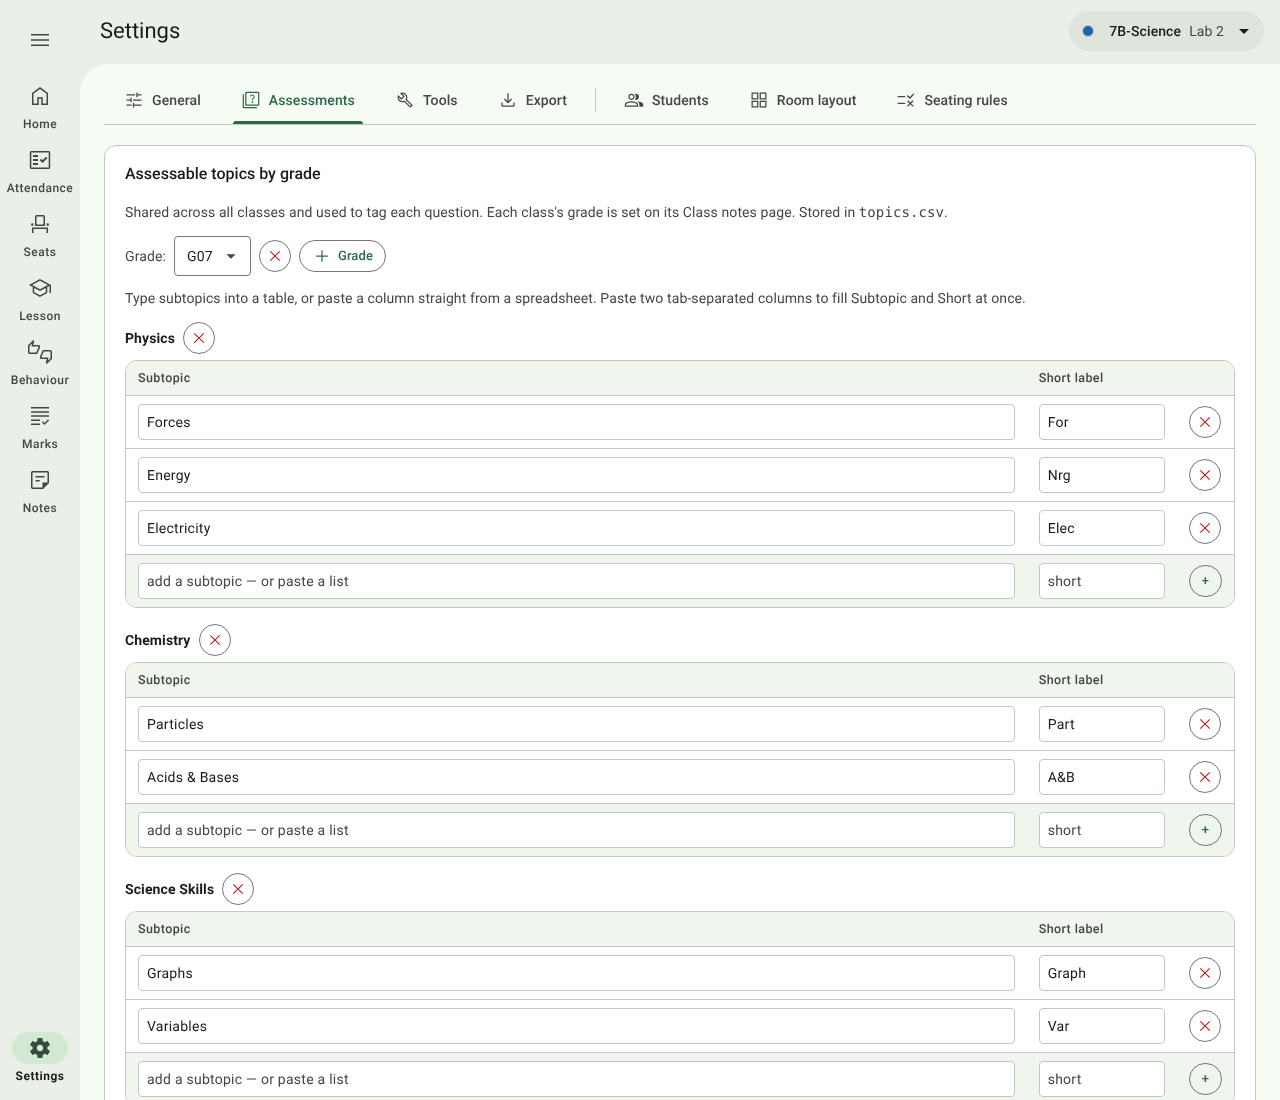
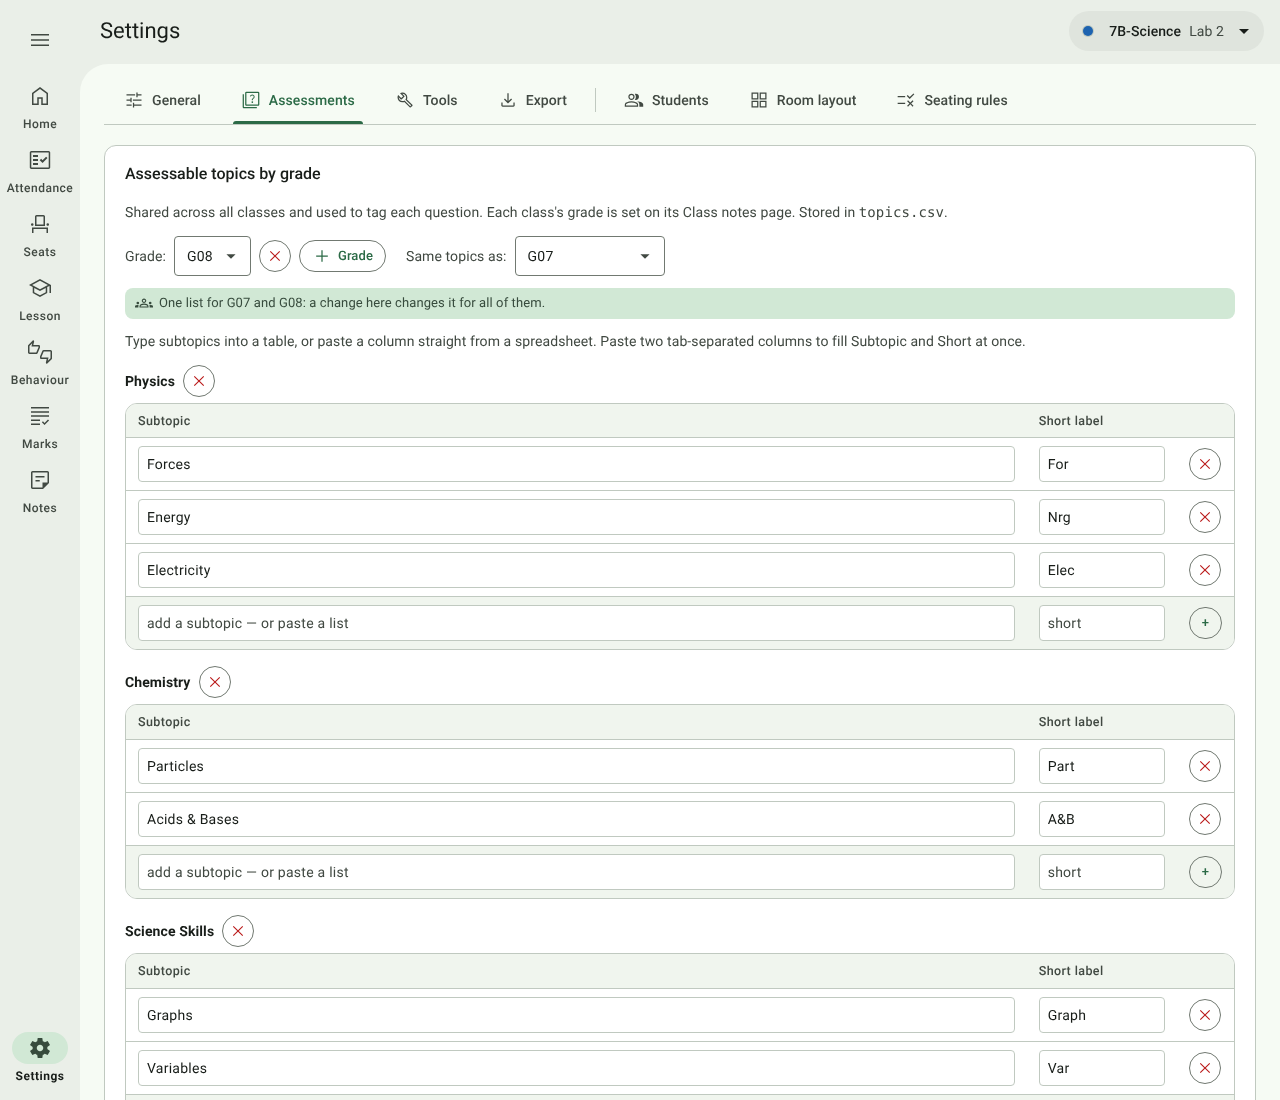
Docs: catch the README and user guide up with the latest changes
- Setting up a class: type the grade as a plain number (10, not 08 or 2026),
  since it has to match the grade's topic list and weighting.
- Marks: topic suggestions can come from a list the grade shares.
- Lesson: teaching mode sets Start lesson / End lesson apart.
- Your data: troubleshooting for a test with no topics, and for an
  unexpected grade such as G2026 under Settings > Assessments.
- README: the topic bank is by grade and grades can share one list.
- The Settings > Assessments screenshot now shows a second grade sharing the
  demo grade's topics, taken after the weighting shot so that one is unchanged.

Claude-Session: https://claude.ai/code/session_0196FnLqe7iH8D6Bvum5RUph

Changed region(s): [[0.0938, 0.2164, 0.9688, 1.0]]

diff --git a/scripts/screenshots/guide.shots.ts b/scripts/screenshots/guide.shots.ts
@@ -488,9 +488,15 @@ test("settings", async ({ page }) => {
   await shotOf(page, panel(page, "Data"), "settings-data", 0);
 
   await settingsTab(page, "Assessments");
-  await shot(page, "settings-assessments");
   await shotOf(page, [panel(page, "Mark entry"), panel(page, "Show results as")], "settings-mark-entry-and-results", 0);
   await shotOf(page, panel(page, "Weighting"), "settings-weighting", 0);
+  // A second grade sharing the demo grade's topics, so the picture shows Same topics as and its note.
+  await page.getByRole("button", { name: "Grade", exact: true }).click();
+  await modal(page).locator("input").fill("8");
+  await modal(page).locator("button.primary").click();
+  await page.getByLabel("Same topics as:").selectOption("7");
+  await page.evaluate(() => window.scrollTo(0, 0));
+  await shot(page, "settings-assessments");
 
   await settingsTab(page, "Export");
   await shot(page, "settings-export");

diff --git a/docs/user-guide/02-setting-up-a-class.md b/docs/user-guide/02-setting-up-a-class.md
@@ -14,7 +14,7 @@ Press **New class** on Home, or open the class menu (top right) and choose **New
 | Field | Notes |
 | --- | --- |
 | **Name** | Required. Also the name of the class's folder on disk, so characters Windows doesn't allow in file names (`< > : " / \ \| ? *`) are left out. |
-| **Grade** | The grade the class is in, e.g. `10`. It picks the topic list used when you tag test questions (see [Marks](07-marks.md)). |
+| **Grade** | The grade the class is in, as a number: `8`, `10`, `12`. It picks the topic list used when you tag test questions (see [Marks](07-marks.md)) and the grade's weighting, and shows as *G08*, *G10* and so on. Type just the grade: not the year (`2026`) and not a leading zero (`08`), or the class won't match the grade's topic list. |
 | **Subject**, **Room** | Shown on the class's Home card and in the class menu. |
 
 Press **Create class**. The new class becomes the one you're working with.
@@ -27,7 +27,7 @@ Open **Notes** in the navigation rail.
 
 | Control | What it does |
 | --- | --- |
-| **Grade / Subject / Room** | Edit, then press **Save**. |
+| **Grade / Subject / Room** | Edit, then press **Save**. Type the grade as a plain number, e.g. `10` (see [Create a class](#create-a-class)). |
 | **Colour** | Pick a swatch (saves at once) or **None**. The colour shows as a band on the Home card, a dot in the class menu, and a line under the top bar on the class's pages. |
 | **Notes box** | Free notes in Markdown (headings with `#`, lists with `-`, links, …). They save when you click away. Tick **show preview** to see them formatted on the right. |
 | **Rename class** | Renames the class and its folder on disk. |

diff --git a/docs/user-guide/07-marks.md b/docs/user-guide/07-marks.md
@@ -31,7 +31,7 @@ Press **New assessment**.
 | --- | --- |
 | **Title** | e.g. *Waves & sound test*. |
 | **Date** | Defaults to today. |
-| **Content area** | From the topic bank for the class's grade (Settings → Assessments). Choose *none / mixed* for a test across areas. |
+| **Content area** | From the topic bank for the class's grade, or for the grade it shares a list with (Settings → Assessments). Choose *none / mixed* for a test across areas. |
 | **Number of questions** | **1** records a single mark per student. **More than 1** records a mark per question, each tagged with a topic and cognitive level. |
 | **Out of** | Only for a single mark. For per-question tests the total is added up from the questions. |
 | **Category** | Free text, e.g. *Test*, *Quiz*, *Homework*, *Exam*, *Project*. The dashboards compare means by category. |
@@ -47,8 +47,9 @@ setup first (**Set up questions**).
 
 For each question, give:
 
-- **Topic** — type, or choose from the suggestions. Suggestions come from the class grade's topic bank, filtered to
-  the test's content area; you can still type a topic that isn't in the bank.
+- **Topic** — type, or choose from the suggestions. Suggestions come from the class grade's topic bank (or the list
+  that grade shares with another), filtered to the test's content area; you can still type a topic that isn't in
+  the bank.
 - **Marks** — what the question is out of.
 - **Cognitive level** — from the list under Settings → Assessments (by default L1 *Recall* to L4
   *Evaluation / Synthesis*).

diff --git a/docs/user-guide/11-your-data.md b/docs/user-guide/11-your-data.md
@@ -78,6 +78,8 @@ book and follow your school's data-handling policy for where it lives and who ca
 | Randomise shows **🔒 Reseat…** | Seats were already assigned this lesson. Press **End lesson**, or **Reseat…** and your PIN. See [Seats](04-seats.md#once-per-lesson-and-the-reseat-pin). |
 | Forgotten the reseat PIN | Close ClassKernel, open `settings.csv` in the data folder with Notepad, delete the value on the `reseat_pin` row (keep `reseat_pin,`), and save. The next unlock asks you to create a new PIN. |
 | A page says *No class selected* | Choose a class from the class menu at the top right. |
+| A test offers no topics to choose from | The class's grade has no topic list. Check its grade on the Class notes page is a plain number (`10`, not `08` or `2026`) that matches a grade under Settings → Assessments, or set that grade to share another grade's list with **Same topics as**. |
+| An unexpected grade (e.g. *G2026*) is listed under Settings → Assessments | A class has that as its grade. Change the class's grade on its Class notes page, then delete the grade with the **✕** beside it. |
 | Lesson says it needs a room layout or seating plan | Draw the room under Settings → Room layout, then seat the class on Seats. |
 | The marks or behaviour page shows only a button | That's the privacy cover; press **Show student details**. |
 | Pick a student says *No students to pick* | Everyone is marked absent or excused. Untick **Skip absent students**. |

diff --git a/README.md b/README.md
@@ -23,7 +23,7 @@ a folder for your data — ideally inside OneDrive or Google Drive, so it's back
 | **Behaviour** | Filterable behaviour log and bathroom log. |
 | **Marks** | Tests as a single mark or per question (tagged by topic and cognitive level), keyboard-first mark entry, a read-only **View** and a class **Markbook**, informal / examination **weighting**, and spreadsheet **templates** to fill in and import. SA levels or symbols. |
 | **Notes** | Class details, colour and Markdown notes. |
-| **Settings** | Students (with Adam numbers, and class lists from a spreadsheet), room-layout designer, seating rules, privacy mode, display size, time zone, teaching mode, behaviour buttons, topic bank, weighting, backups and **.xlsx export**. |
+| **Settings** | Students (with Adam numbers, and class lists from a spreadsheet), room-layout designer, seating rules, privacy mode, display size, time zone, teaching mode, behaviour buttons, topic bank by grade (grades can share one list), weighting, backups and **.xlsx export**. |
 
 **Optional tools**, off until switched on in Settings → Tools:
 

diff --git a/docs/user-guide/05-lesson.md b/docs/user-guide/05-lesson.md
@@ -118,8 +118,8 @@ The app fills the screen with the room plan. Tapping seats works exactly as abov
 
 ![Teaching mode: the full-screen room plan](../images/teaching-room-plan.png)
 
-The buttons are grouped (**Record**, **Seating**, **View**), with **End lesson** set apart so it isn't hit by
-accident. Choose which edge they sit on — left, right, top or bottom — under
+The buttons are grouped (**Record**, **Seating**, **View**), with **Start lesson** / **End lesson** set apart so it
+isn't hit by accident. Choose which edge they sit on — left, right, top or bottom — under
 [Settings → General → Teaching mode](10-settings.md#teaching-mode), so they're under your hand where you stand.
 
 ### Side panel
